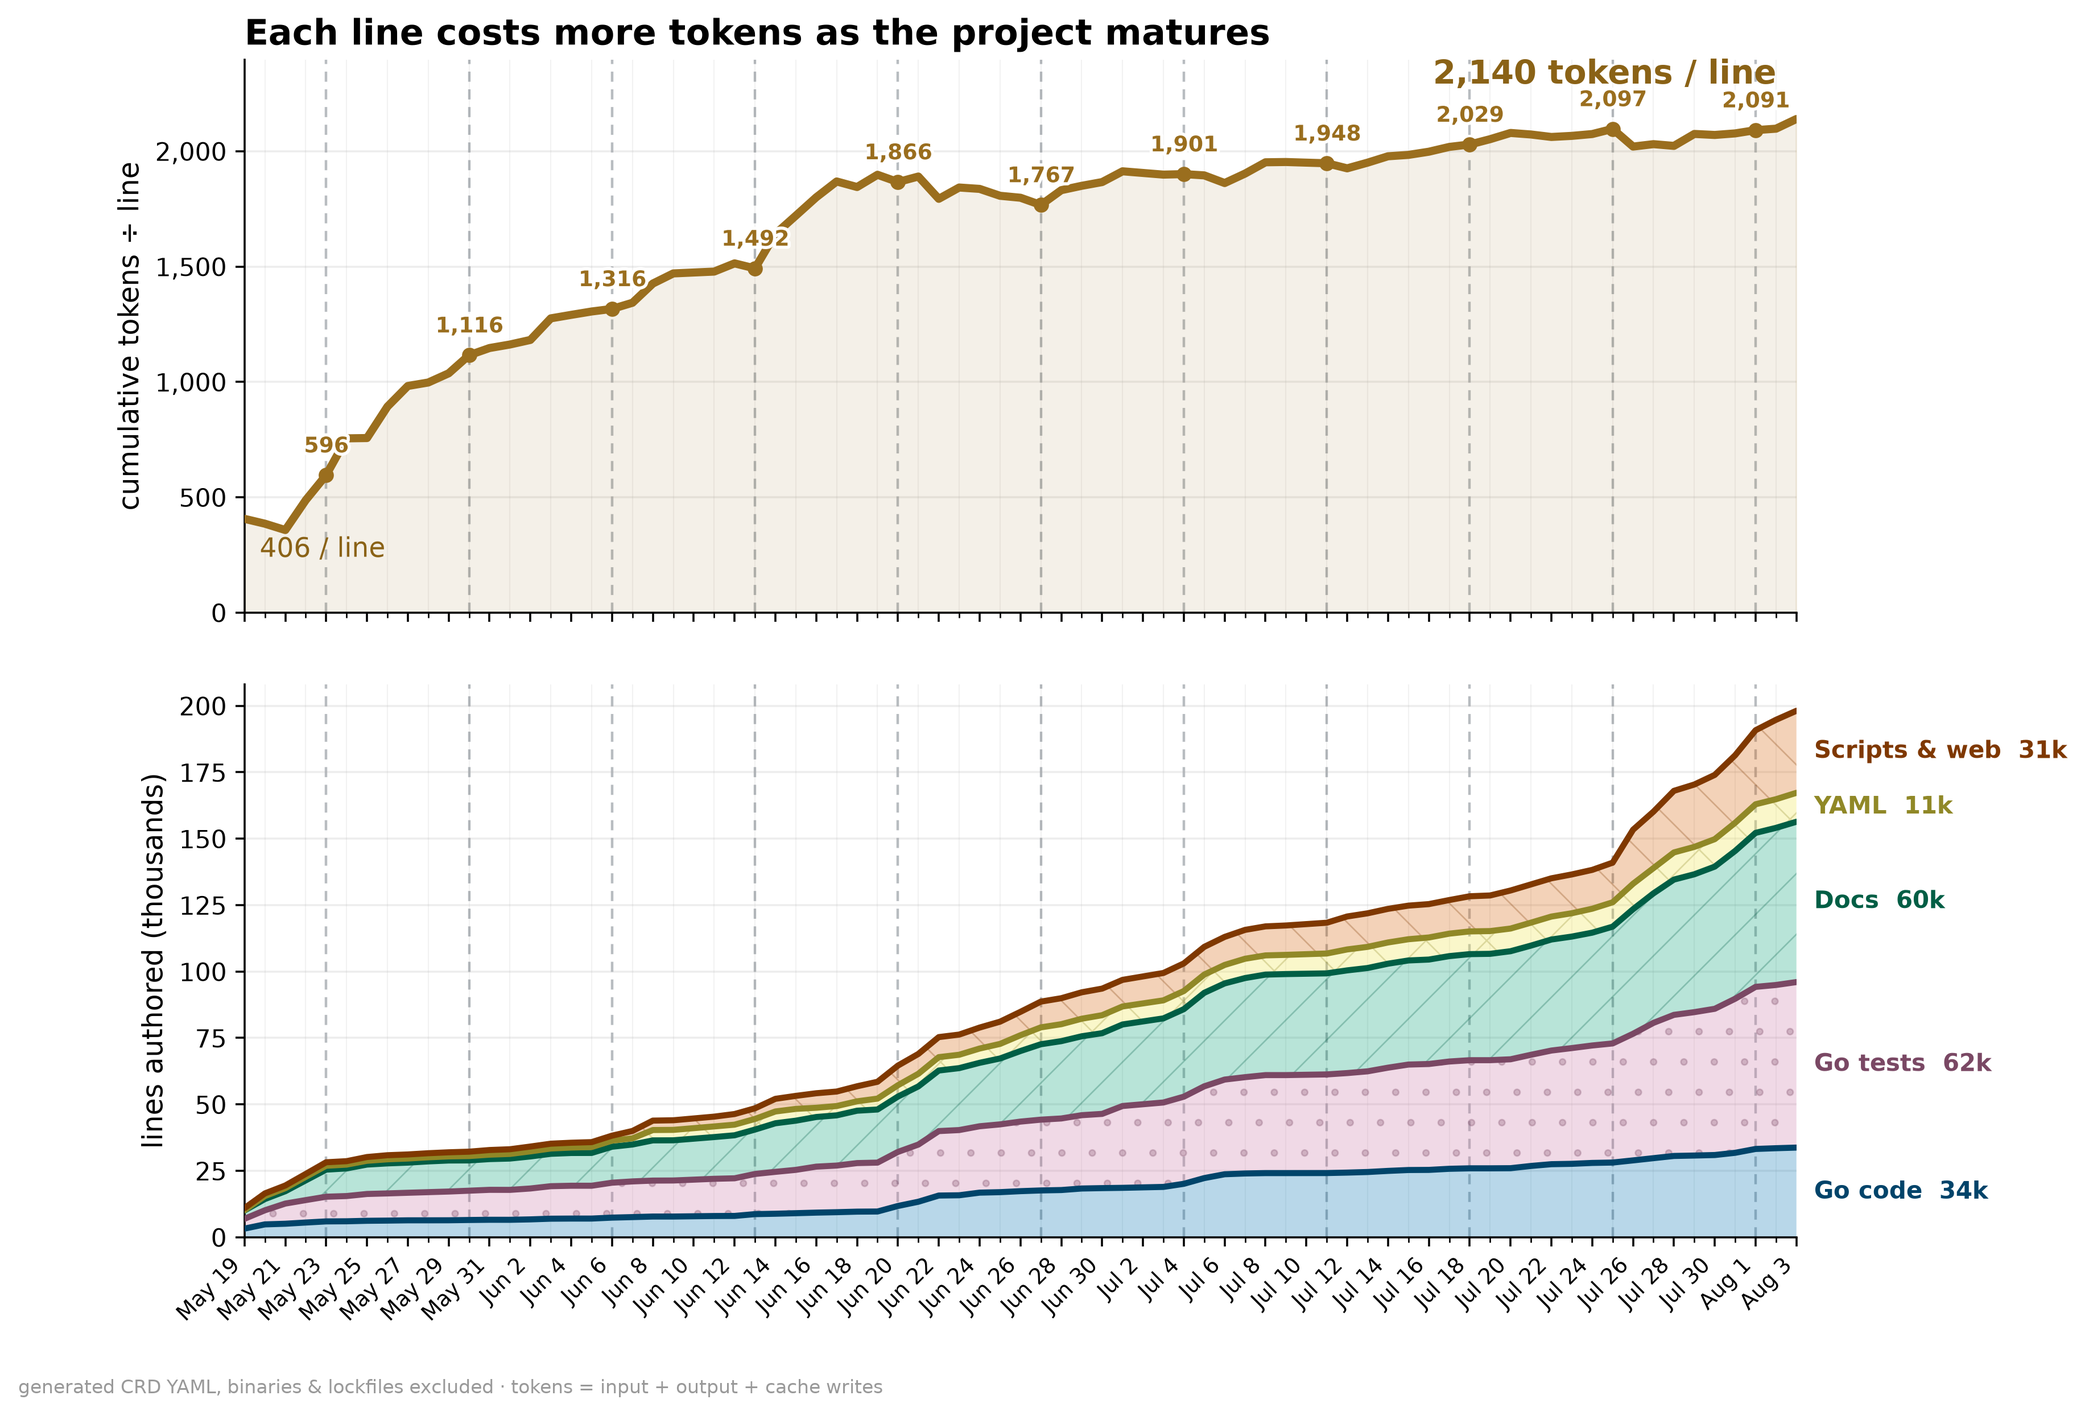
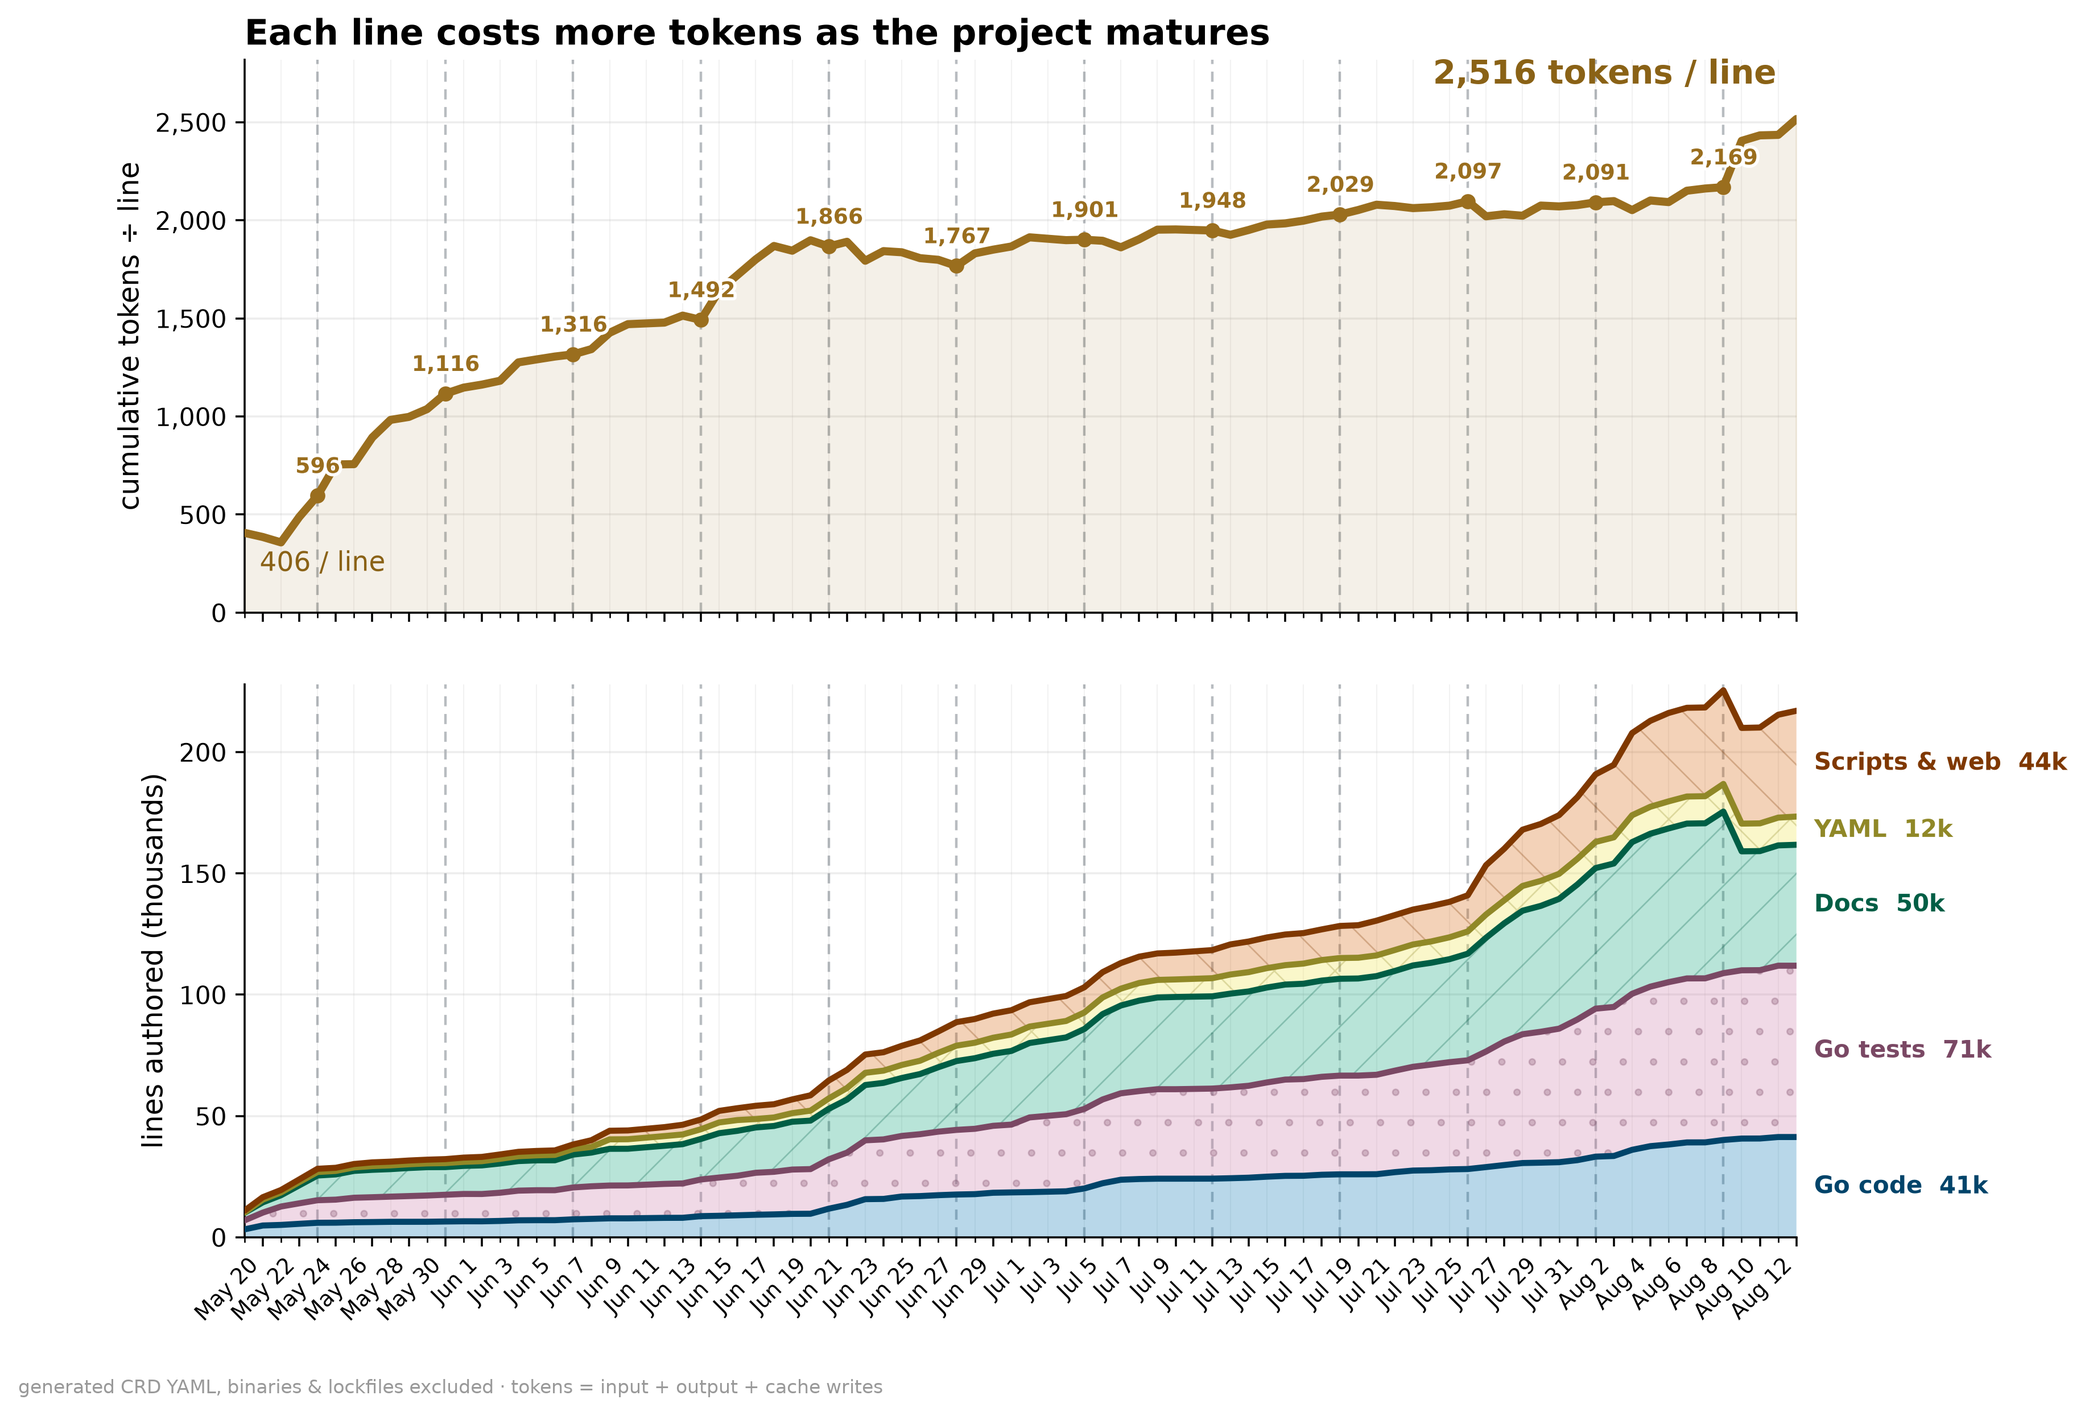
chore(metrics): refresh the Claude Code usage snapshot to 2026-08-12 (mac-2)
Day 89: 546.0M headline tokens (543.5M measured), 25.1B including cache reads,
~54x cache reuse, 1,863 commits, 2,111 tests, 111.9k lines of Go. Opus 5 is now
the largest share of all headline tokens at 44%, ahead of Opus 4.8's 40%, and
the mac-2 era runs about three times the daily volume of the Opus 4.8 era
(median 14.6M against 4.2M).

Markdown is the only count that fell (60.4k -> 50.1k) and nothing was deleted:
#1357's sentence-per-line reflow unwrapped hard-wrapped paragraphs on 08-09,
67.6k non-blank lines to 49.0k, same words. Every line count here is a snapshot
of the tree rather than a running total, so the reformat also lifted
tokens-per-line by roughly 200 of its climb to 2,516. Filed as Q824.

Also records the weekly plan ceiling, which nothing here can measure. The Max
20x allowance first ran to 99% in the seven-day window that ended when it reset
on 2026-08-10, and it is not readable off these charts: every rateLimits field
in the transcripts is null, and the allowance meters every project on the
account while these CSVs cover one. This project's 96.4M for that window was
below the preceding week's 98.6M.

Re-measured the bucket-width caveat rather than carrying day 80's numbers: at
1-minute buckets the daily peaks come out 2-14 against 3-16, but the mean falls
to 2.2, the parallel share to 53%, and wall-clock hours to 111 from 184.

diff --git a/claude-usage/README.md b/claude-usage/README.md
@@ -74,35 +74,42 @@ The same target byte-compiles every `.py` here, which is the only check [`make_c
 
 ## Results
 
-Latest snapshot **2026-08-03** (project day 80; first commit 2026-05-16).
-"Day 7" is the [original day-7 Bluesky post][post1]'s published figures; "Day 22" is the [day-22 follow-up][post2]; "Day 80" is the current snapshot the charts here back.
+Latest snapshot **2026-08-12** (project day 89; first commit 2026-05-16).
+"Day 7" is the [original day-7 Bluesky post][post1]'s published figures; "Day 22" is the [day-22 follow-up][post2]; "Day 89" is the current snapshot the charts here back.
 The snapshots are announced as a quote-post chain (each post quotes the previous one): [day 7][post1] → [day 22][post2] → [day 35][post3] → [day 48][post4] → [day 70][post5].
 
-> **Frozen snapshot.** The committed CSVs, `summary.json`, and charts are the 2026-08-03 snapshot.
+> **Frozen snapshot.** The committed CSVs, `summary.json`, and charts are the 2026-08-12 snapshot.
 > Re-running `compute_metrics.py` advances the token/message series as new sessions accrue (the merge rule only ever revises upward); leave it un-run to keep these figures, or re-run and refresh the charts to roll forward to a new dated snapshot.
 
-| Metric | Day 7 | Day 22 | Day 80 | Source |
+| Metric | Day 7 | Day 22 | Day 89 | Source |
 |---|--:|--:|--:|---|
-| Tokens (input + output + cache-creation) | ~10M | 56.2M | **423.9M** | transcripts + est. |
-| └ measured only | — | 53.7M | 421.4M | transcripts |
+| Tokens (input + output + cache-creation) | ~10M | 56.2M | **546.0M** | transcripts + est. |
+| └ measured only | — | 53.7M | 543.5M | transcripts |
 | └ estimated backfill (May 16–18) | — | +2.5M | +2.5M | per-commit estimate |
-| └ incl. cache reads | — | 2.02B | **18.3B** | transcripts + est. |
-| Cache reuse ratio (reads ÷ writes) | — | ~44× | **~52×** | transcripts |
-| Git commits | 232 | 617 | **1,654** | git |
-| Tests (`func Test*`) | 269 | 393 | **1,876** | git |
-| Lines of Go (code) | 15.5k | 20.9k | **96.0k** | git |
-| Lines of Go (comments) | 2.3k | 4.2k | **34.8k** | git |
-| Markdown (non-blank) | 14.3k | 14.0k | **60.4k** | git |
-| YAML (hand-written) | 1.5k | 2.3k | **11.4k** | git |
-| Scripts & web (shell/Python/Make/Docker/CSS/JS) | — | — | **30.9k** | git |
-| Model mix | mostly Sonnet 4.6 | Sonnet 43% / Opus 57% | **Opus 4.8 52% / Opus 5 29% / Fable 9% / Sonnet 6% / Opus 4.7 4%** | transcripts |
-| Mean concurrent sessions | — | — | **3.0** (peak 13) | transcripts, since Jul 26 |
-| Hours using Claude (wall-clock) | — | — | **95.8h** → 286.5h session-time | transcripts, since Jul 26 |
+| └ incl. cache reads | — | 2.02B | **25.1B** | transcripts + est. |
+| Cache reuse ratio (reads ÷ writes) | — | ~44× | **~54×** | transcripts |
+| Git commits | 232 | 617 | **1,863** | git |
+| Tests (`func Test*`) | 269 | 393 | **2,111** | git |
+| Lines of Go (code) | 15.5k | 20.9k | **111.9k** | git |
+| Lines of Go (comments) | 2.3k | 4.2k | **39.9k** | git |
+| Markdown (non-blank) | 14.3k | 14.0k | **50.1k** | git |
+| YAML (hand-written) | 1.5k | 2.3k | **12.2k** | git |
+| Scripts & web (shell/Python/Make/Docker/CSS/JS) | — | — | **43.6k** | git |
+| Model mix | mostly Sonnet 4.6 | Sonnet 43% / Opus 57% | **Opus 5 44% / Opus 4.8 40% / Fable 8% / Sonnet 5% / Opus 4.7 3%** | transcripts |
+| Mean concurrent sessions | — | — | **3.0** (peak 16) | transcripts, since Jul 26 |
+| Hours using Claude (wall-clock) | — | — | **183.5h** → 556.8h session-time | transcripts, since Jul 26 |
 
-The headline tokens figure **includes the ~2.5M estimated backfill** for the archived first three days; the measured-only floor is 421.4M.
+The headline tokens figure **includes the ~2.5M estimated backfill** for the archived first three days; the measured-only floor is 543.5M.
 Live totals (with the measured / estimated split) are always in [`data/summary.json`](data/summary.json).
 
-This snapshot spans a machine handover. `mac-1` measured everything through 2026-07-26 and has since been **retired**; `mac-2` replaced it, taking over mid-morning that day and measuring through 2026-08-03.
+Markdown is the only count here that fell since day 80 (60.4k), and nothing was deleted.
+[#1357](https://github.com/actions-gateway/github-actions-gateway/pull/1357) reflowed every tracked doc to one sentence per line on 2026-08-09, which unwraps hard-wrapped paragraphs: 67.6k non-blank lines before that commit, 49.0k after, same words.
+Every line-count series here is a snapshot of the tree rather than a running total of lines ever written, so a reformat moves it.
+
+The Max 20x weekly token allowance also hit **99% for the first time**, in the seven-day window that ended when it reset on the morning of Monday 2026-08-10.
+That ceiling is not visible in anything here, and it is not this project's headline figure hitting a wall: the allowance meters Anthropic's own weighted accounting across every project on the account, and this project's 96.4M for that window was in fact *below* the preceding week's 98.6M.
+
+This snapshot spans a machine handover. `mac-1` measured everything through 2026-07-26 and has since been **retired**; `mac-2` replaced it, taking over mid-morning that day and measuring through 2026-08-12.
 They overlap on 2026-07-26 alone, and the overlap is clean rather than double-counted: mac-1 recorded that morning, and every mac-2 record for the day starts at 10:26 local — the minute the replacement cloned the repo — so the day's total is their sum with no session counted on both.
 
 Because mac-1 is gone, its rows are final and 2026-07-27 onward is mac-2 only and **complete**, not a day awaiting a second reporter.
@@ -121,38 +128,40 @@ The standalone versions follow below.
 
 ### Daily token usage by model
 ![Daily token usage by model](charts/tokens_by_model.png) The Pro→Max 5x upgrade (first dashed line, 2026-05-23) is visible as the hand-off from Sonnet 4.6 (orange) to Opus 4.7 (purple), then Opus 4.8 (blue), with Fable 5 (green) appearing from June 9 and Opus 5 (vermillion) from July 25; the second dashed line (2026-07-05) marks the Max 5x→20x upgrade.
-Opus 5 takes over almost completely from the green dash-dot line (2026-07-26), where `mac-2` took over, on days roughly twice the height of the Opus 4.8 era.
-That doubling is the model and the plan, **not** more machines running at once — `mac-2` replaced `mac-1` rather than joining it.
+Opus 5 takes over almost completely from the green dash-dot line (2026-07-26), where `mac-2` took over, on days around three times the height of the Opus 4.8 era (median 14.6M against 4.2M).
+That jump is the model and the plan, **not** more machines running at once — `mac-2` replaced `mac-1` rather than joining it.
 Charts use the Okabe–Ito colourblind-safe palette, and each model also carries its own hatch pattern.
 
 Two kinds of event line, styled apart because they mean different things: a **black dashed** line is a plan upgrade (a higher ceiling on what one machine can spend), a **green dash-dot** line is a machine's rows beginning (a change in which machine is measuring).
 Machine lines are derived from the first row each machine reports, so a third machine marks itself with no code change.
 They read "begins" rather than "joins" because the data can't tell a replacement from an addition — an old machine going quiet is not evidence it was retired.
+A label that would overlap one already placed drops a row instead, measured on the rendered figure: the two July markers shared a height comfortably at day 80 and collided at day 89, because every added day squeezes the timeline under a fixed figure width.
 
 ### Tokens spent vs. lines authored (the magnitude)
-![Cumulative tokens far above cumulative lines authored, log scale](charts/tokens_vs_lines.png) Log y so both ends are visible at once: ~424M cumulative tokens ride well above ~198k lines authored (a linear axis crushes the lines to an invisible sliver).
-The gold-shaded gap between the two curves is the ~2,140 tokens/line — on a log axis a ratio is a vertical gap.
+![Cumulative tokens far above cumulative lines authored, log scale](charts/tokens_vs_lines.png) Log y so both ends are visible at once: ~546M cumulative tokens ride well above ~217k lines authored (a linear axis crushes the lines to an invisible sliver).
+The gold-shaded gap between the two curves is the ~2,516 tokens/line — on a log axis a ratio is a vertical gap.
 "Lines authored" is all hand-written output — Go (code + tests), Markdown, hand-written YAML, and scripts & web; generated CRD YAML, binaries, and lockfiles excluded.
 The undistorted breakdown of those lines is in the next chart.
 
 ### Tokens per line authored (the trend & the breakdown)
 ![Cost per line over time above a stacked breakdown of the lines](charts/tokens_per_line.png) **Top:** cumulative tokens ÷ lines authored, by day (measured days only).
-It climbs from ~410 tokens/line in week one to ~2,140 by month three — each line costs ~5× more once the easy scaffolding is done and the work shifts to logic, tests, review, and debugging. **Bottom:** the denominator itself, decomposed — Go code, Go tests, Markdown docs, hand-written YAML, scripts & web.
+It climbs from ~406 tokens/line in week one to ~2,516 by month three — each line costs ~6× more once the easy scaffolding is done and the work shifts to logic, tests, review, and debugging. **Bottom:** the denominator itself, decomposed — Go code, Go tests, Markdown docs, hand-written YAML, scripts & web.
 Its total height at any date *is* the divisor above, so "a line" is shown, not just named; tests and docs together dwarf non-test Go code.
+The notch in the Docs band on 2026-08-09 is the sentence-per-line reflow, and it accounts for roughly 200 of the ratio's climb past 2,300: the same words on 18.6k fewer lines cost the same tokens.
 
 ### Anatomy of token usage (log scale)
 ![Token usage anatomy on a log scale](charts/token_anatomy.png) Daily input / output / cache-creation / cache-read, log Y. Cache reads sit an order of magnitude above everything else, every day.
 
 ### Cumulative cache traffic
-![Cumulative cache traffic](charts/cumulative_cache.png) Cumulative cache reads (17.9B) vs writes (345M).
-Write once, replay ~52×.
+![Cumulative cache traffic](charts/cumulative_cache.png) Cumulative cache reads (24.5B) vs writes (451M).
+Write once, replay ~54×.
 Both plan upgrades and the `mac-1`→`mac-2` handover are marked; the curve visibly steepens at the last of them.
 
 ### Parallel sessions
 ![Peak concurrent sessions per day, over the share of the day that was parallel](charts/parallel_sessions.png) How much of the work runs concurrently. **Top:** mean concurrency (line) against the day's peak (bars).
-The peak is the dramatic number — up to 13 — but it lasts a single bucket; the **mean of 3.0** is what actually multiplies a day's output. **Bottom:** time on Claude each day, wall-clock against session-hours.
-The gap between the two bands *is* the mean concurrency: **96h at the keyboard produced 286h of session-time** over the window, a 3.0× multiplier.
-71% of active time had two or more sessions running, on 11–48 sessions a day.
+The peak is the dramatic number — up to 16 — but it lasts a single bucket; the **mean of 3.0** is what actually multiplies a day's output. **Bottom:** time on Claude each day, wall-clock against session-hours.
+The gap between the two bands *is* the mean concurrency: **183h at the keyboard produced 557h of session-time** over the window, a 3.0× multiplier.
+67% of active time had two or more sessions running, on 4–54 sessions a day.
 
 **This chart has its own timeline, and starts at 2026-07-26.** Concurrency needs session-level transcripts, and no CSV before this one preserved them, so the mac-1 era cannot be reconstructed — daily token totals can't say how many sessions overlapped.
 Drawing it against the project timeline would show 71 empty days and read as idleness rather than missing data.
@@ -217,14 +226,18 @@ Totals split into `measured` / `estimated` / `combined` (summed from the persist
   A retired machine can never report again, so whatever it had not captured by its last run is gone rather than pending.
 - **Archived early days are estimated, not measured.** The project's first commits (2026-05-16 to -18) predate the earliest surviving transcript (2026-05-19), so their token usage is gone from the logs.
   Those days are **backfilled** from the Pro-era per-commit rate and flagged `estimated=1` (see "Backfilled (estimated) days" above).
-  The ~2.5M backfill is a modeled figure, not a measurement — the defensible measured-only floor is 421.4M.
+  The ~2.5M backfill is a modeled figure, not a measurement — the defensible measured-only floor is 543.5M.
   The git series is fully measured from 2026-05-16.
 - **"Concurrent" is a bucket width, not a fact.** A session counts as active in a 10-minute bucket if it produced a record there, so two sessions are "concurrent" when both worked within the same 10 minutes — not necessarily in the same second.
   The width is a judgement: wide enough that a session waiting on a build still counts as in flight, narrow enough that work hours apart never collides.
-  At 1-minute buckets the daily peaks come out 8–12 rather than 8–13, so the headline is not sensitive to it, but the parallel-share figure is.
+  At 1-minute buckets the daily peaks come out 2–14 rather than 3–16, so the peak barely moves, while every figure with time in it does: the mean falls to 2.2, the parallel share to 53%, and wall-clock hours to 111 from 184, because the bucket *is* the unit of time.
 - **Tokens-per-line is a proxy.** The denominator is all hand-authored output — Go (code + tests), Markdown, hand-written YAML, and scripts & web (shell, Python, Make/Docker, CSS/JS) — but tokens also go into review, debugging, and exploration that never lands as a line, so the ratio tracks overall effort-per-output, not the literal cost of one line.
   Generated YAML (CRDs/controller-gen, ~130k lines), binaries, lockfiles, and license boilerplate are excluded so non-authored content doesn't dilute it.
   Estimated (pre-transcript) days are excluded so it's measured-only.
+  The denominator is also the current tree rather than everything ever written, so a pure reformat moves the ratio: the 2026-08-09 sentence-per-line reflow lifted it ~8% on no extra spend ([Q824](../docs/STATUS.md#Q824)).
+- **The plan's weekly ceiling is not in this data.** The Max 20x allowance first ran to 99% in the window that reset on 2026-08-10, so from here on a short day can be a limit rather than a choice.
+  Nothing in the transcripts records it: every `rateLimits` field they carry is null, and the allowance meters every project on the account while these CSVs cover one.
+  It is a dated note in Results above, not a series.
 - **Date basis differs by source.** Token dates are UTC (from message timestamps); git dates are author-local (`--date=short`).
   Close enough at daily granularity, but they can disagree by a day at midnight boundaries.
 - **`go_code` is approximate in the daily series** (non-blank minus line comments, so block comments count as code). `summary.json`'s HEAD snapshot uses an exact comment-aware split; the two agree to within ~0.1%.
